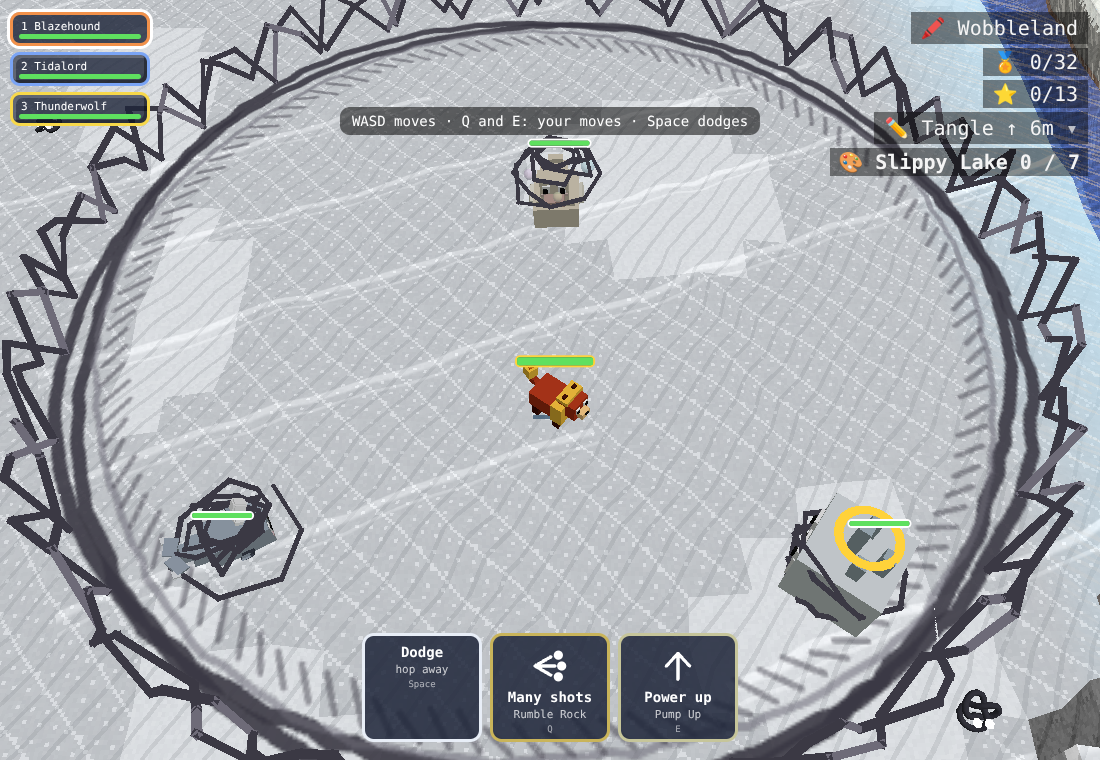
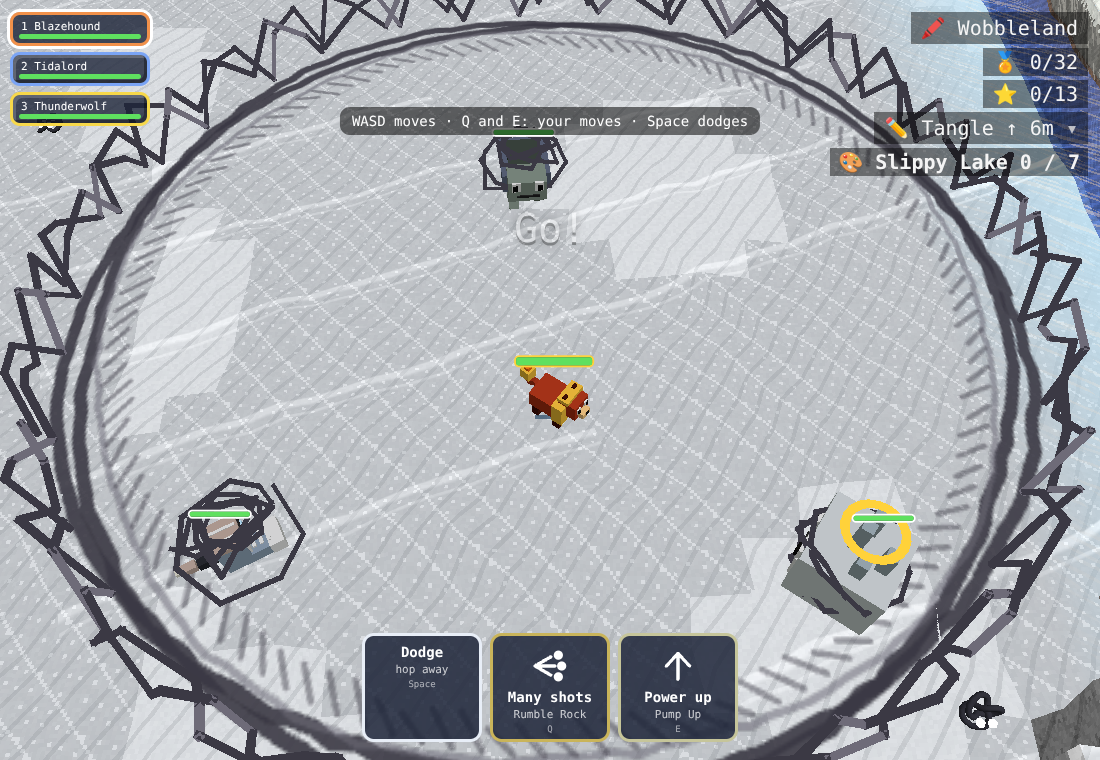
Slippy Lake: only monsters that charge by nature skate; the rest keep their own way of fighting
The ice no longer turns every slipping monster into a charger (owner: only rushes should skate).
Each lake patch gets one creature that charges by its nature (Zipskate, Blastskate, Parroteer,
Bottlet, Fizzbomb) so the skid still shows; patch 7 has Shellby instead of Squeaklet. Bot numbers
and the plan's section 9 updated.

Claude-Session: https://claude.ai/code/session_01Xr3DsTp8oRiY9awyskzth5

diff --git a/src/wobbleland.js b/src/wobbleland.js
@@ -46,18 +46,19 @@ export const PATCHES = [
   { id: 5, x: 140, z: 156, size: 'tangle', region: 'meadow', species: ['hornbeetle', 'woolumph', 'balloony', 'mossloth'], pot: 0xf07ab8 },
   { id: 6, x: 112, z: 152, size: 'knot', region: 'meadow', species: ['thornox', 'gullop', 'monarchwing', 'bounceroo'], grumble: 'grovebeast', last: true, pot: 0x8a4ee0 },
   // Slippy Lake (owner 2026-11-11: the ground decides the fight): every ring is on the ice, so everyone slides but Ice creatures. One Ice
-  // monster in each (it keeps its grip), the rest the lake's Bubble ducks and Sky birds and a Water one where there is open water (Ice
+  // monster in each (it keeps its grip), one creature that charges by its nature (a Racer skater, Fizzbomb, a Pirate) so the ice's skid shows, the rest the lake's Bubble ducks, birds
+  // and a Water one where there is open water (Ice
   // moves do half to Water and Ice: a lake of Water monsters would hide the grip behind the type chart, measured: plans/chapter3-world.md).
   // `holes`: open water in the ice inside the ring ([dx, dz, r]: the water twist there too, a Water creature swims at full speed). The
   // knot's big one is Blizzbear (an Ice Grumble: it keeps its grip). No smudges: the second region starts with tangles, and `step`: its
   // monsters are 2 levels over a meadow patch of the same size (scribblefight.js patchFight).
-  { id: 7, x: 41, z: 204, size: 'tangle', region: 'lake', step: 2, species: ['frostling', 'squeaklet', 'skyfin'], pot: 0x46d0e0 },
-  { id: 8, x: 41, z: 152, size: 'tangle', region: 'lake', step: 2, species: ['waddlice', 'suddly', 'pinwhirl'], pot: 0x9be36a },
-  { id: 9, x: 17, z: 204, size: 'tangle', region: 'lake', step: 2, species: ['flurrydome', 'hippip', 'shellby'], wet: true, holes: [[3, 3, 1.8], [-4, -3, 1.6]], pot: 0x1a9e8f },
+  { id: 7, x: 41, z: 204, size: 'tangle', region: 'lake', step: 2, species: ['frostling', 'shellby', 'zipskate'], pot: 0x46d0e0 },
+  { id: 8, x: 41, z: 152, size: 'tangle', region: 'lake', step: 2, species: ['waddlice', 'suddly', 'parroteer'], pot: 0x9be36a },
+  { id: 9, x: 17, z: 204, size: 'tangle', region: 'lake', step: 2, species: ['flurrydome', 'bottlet', 'shellby'], wet: true, holes: [[3, 3, 1.8], [-4, -3, 1.6]], pot: 0x1a9e8f },
   { id: 10, x: 17, z: 152, size: 'tangle', region: 'lake', step: 2, species: ['snowpaw', 'balloony', 'fizzbomb'], pot: 0x2a3fae },
-  { id: 12, x: 17, z: 126, size: 'tangle', region: 'lake', step: 2, species: ['snowpaw', 'gullop', 'zeppeluff'], pot: 0x7a5cff },
-  { id: 13, x: 41, z: 126, size: 'tangle', region: 'lake', step: 2, species: ['waddlice', 'bubbuck', 'pinwhirl'], wet: true, holes: [[-3, 3, 1.7]], pot: 0xff6a3c },
-  { id: 11, x: 29, z: 99, size: 'knot', region: 'lake', species: ['frostling', 'suddly', 'skyfin'], grumble: 'blizzbear', last: true, wet: true, holes: [[-5, 3, 1.6], [4, -4, 1.5], [6, 5, 1.3]], pot: 0xd6f4ff },
+  { id: 12, x: 17, z: 126, size: 'tangle', region: 'lake', step: 2, species: ['snowpaw', 'gullop', 'blastskate'], pot: 0x7a5cff },
+  { id: 13, x: 41, z: 126, size: 'tangle', region: 'lake', step: 2, species: ['waddlice', 'bubbuck', 'zipskate'], wet: true, holes: [[-3, 3, 1.7]], pot: 0xff6a3c },
+  { id: 11, x: 29, z: 99, size: 'knot', region: 'lake', species: ['frostling', 'suddly', 'blastskate'], grumble: 'blizzbear', last: true, wet: true, holes: [[-5, 3, 1.6], [4, -4, 1.5], [6, 5, 1.3]], pot: 0xd6f4ff },
 ];
 export const CAMP_POT = { x: 120, z: 207, colour: 0xff8a1c };    // A3: the Camp's own paint pot (a hop back home)
 export const patchKey = id => `pw:wobble:patch${id}`;
@@ -424,7 +425,7 @@ export function paperDoor(world) {
 }
 // The Wizard's words after a patch is cleared (n = patches cleared in the region, of = how many it has).
 const NEXT_WORDS = { meadow: 'Next: Slippy Lake, through the west wall!', lake: 'Next: Shadywood, through the east wall of the meadow.' };
-const KNOT_WORDS = { meadow: 'Be careful: something grumbles in there!', lake: 'Be careful: something big skates in there!' };
+const KNOT_WORDS = { meadow: 'Be careful: something grumbles in there!', lake: 'Be careful: something big and icy waits in there!' };
 export function wizardLine(n, of, region = 'meadow') {
   const name = REGIONS[region]?.name ?? 'Puddle Meadow';
   if (n >= of) return `🧙 ${name} is bright again! ${NEXT_WORDS[region] ?? ''}`.trim();

diff --git a/src/groundrules.js b/src/groundrules.js
@@ -7,14 +7,12 @@
 //   move(v, tx, tz, dt, grip): the walking velocity v eases toward the wanted (tx, tz) for one step of dt
 //   carry:        what is left of a rush / dodge's speed when it ends (a slider skids on)
 //   overshoot:    how far a slipping monster's charge goes past its aim (its red line is drawn that much longer)
-//   pattern(type): how a monster of this type fights here (null = its own nature): on ice the ones that slip skate at you (charge)
 export class GroundRule {
   constructor(o = {}) { this.id = 'plain'; Object.assign(this, o); }
   grips() { return true; }
   move(v, tx, tz) { v.x = tx; v.z = tz; }
   carry() { return 0; }
   overshoot() { return 0; }
-  pattern() { return null; }
   // how far something moving at speed `s` goes before it stops if it lets go now (the bots and the skid marks read it)
   stopDist() { return 0; }
 }
@@ -34,7 +32,6 @@ export class Ice extends GroundRule {
   }
   carry(kind, type) { return this.grips(type) ? 0 : kind === 'dodge' ? this.dodge : this.rush; }
   overshoot(type) { return this.grips(type) ? 0 : this.past; }
-  pattern(type) { return this.grips(type) ? null : 'charge'; }
   stopDist(s, type) { return this.grips(type) ? 0 : s / this.k; }
 }
 

diff --git a/src/scribblefight.js b/src/scribblefight.js
@@ -210,8 +210,7 @@ export class ScribbleFight {
     const list = opts.foes || FOES.slice(0, 3);
     this.foes = list.map((d, i) => {
       const [x, z] = opts.spots?.[i] ?? this.spotAround(i, list.length);
-      const rule = this.g.rule?.(this.C.x, this.C.z, this.C.y), on = rule?.pattern(SPECIES[d.species]?.type); // (the ground may change how it fights: on ice the slippers skate at you)
-      const f = fighter({ species: d.species, level: d.level ?? lvl, pattern: on && !d.grumble ? on : d.pattern }, 'foe', x, this.g.floor(x, z, this.C.y + 6), z);
+      const f = fighter({ species: d.species, level: d.level ?? lvl, pattern: d.pattern }, 'foe', x, this.g.floor(x, z, this.C.y + 6), z);
       f.maxHp = f.hp = Math.round(f.maxHp * FIGHT.foeHp * (opts.hp ?? 1)); // (a patch's size: PATCH_SIZES)
       if (d.grumble) { f.grumble = true; f.r = GRUMBLE.r; f.maxHp = f.hp = Math.round(f.maxHp * GRUMBLE.hp); f.openT = 0; }
       f.heading = Math.atan2(this.you.x - x, this.you.z - z);

diff --git a/CLAUDE.md b/CLAUDE.md
@@ -197,15 +197,15 @@ world with `W/D/data/ground/index/inBounds/get`) are run in Node by their specs.
 | `src/studio.js` | Wave 19 stage C: `createStudio(game, { startBattle, save })` -> `game.studio` (`won` / `ally` / `paint` / `design` / `wins` = the save field `wizard`, `loadStudio` cleans it; `talk` = his gate words, the first battle (`boss: true`, `wizard: { rematch }`), a rematch ask; `battleWon` / `battleLost` from main.js `onBattleEnd`; the drawing board `#drawboard` (`renderBoard`, `pick` -> `ui.ask`, `choose` = the guardian joins your team in your painted colours, `+20` cubes, `ui.celebrate`); `redraw` (a missing guardian); `rankText` ("Wizard's Ally"); `update` (called by `portal.update`: the Wizard on his island in the Swirl via `npcs.addGuest`, your guardian circling his tower); pure `battleTeam(wins)`, `loadStudio`) |
 | `src/studiolive.js` | Wave 19 stage B `StudioLive` = `LIVE.studio`: dip / paint (`near` / `use` / `tap`, reach 12, "Come a little closer!" beyond it), squares with `setLive`, stairs doors with `LiveCells`, the hint blink, the brush chip, the `#easel` card, the Wizard's gate words (stage C: his battle); `manual` + `step`, `info()` |
 | `src/studioprops.js` | Wave 19 stage B models: `drawPicture` / `pictureCanvas` (from `FLOORS`), the easel, pot rims, the brush, the rug |
-| `src/scribblefight.js` | Chapter 3 Test A / B (owner 2026-11-09), pure, Node-runnable: `ScribbleFight` = the arena's Live rules (`shapeOf`, `damage`, `intentFor`, `LIVE` imported unchanged from `src/arena/`) on the REAL ground: `groundOf(world)` (`stand`: a creature steps up one block, a step of two is a wall; `floor`; `wet`: swim slowly), shots fly straight in 3D and stop in the first solid block, a rush stops at a wall, a stomp reaches only about its own height, the ring (`FIGHT.R` 10) is the only fence; `FIGHT` (scribble monsters x8 HP, power 60, `attack` 0.7: tougher than the arena's x6 / 50 so mashing never wins with buffs that really work; `rush`: a rush landing in the last half of a monster's warning cancels its attack, knocks it back and carries you through, any other rush stops at the monster; `cool` overrides the arena's cool-downs, empty now; owner 2026-11-09 "shots have a huge advantage", measured in plans/chapter3.md), `squadOf(party)` (copies, never your real creatures), `spotAround` (monsters leap round your creature). Night run 2026-11-09 (`plans/chapter3.md` section 9): the monsters take your STRONGEST creature's level; `FIGHT.burst` (the big blast's ring grows 2 -> 5 while held, only a full one hits hard, it stops a monster in the last half of its warning; `blastR(k)`), `FIGHT.heal` (sits 0.8 s, a hit spoils it), `FIGHT.powerUp` (lost on a hit), `FIGHT.tough` (a brace: a hit in 0.7 s bounces off and stops its thrower); **Owner 2026-11-11 (night run, plans/chapter3-world.md "Decided overnight"): `KIND_NUMBERS` = every kind's numbers in one place (`wait`, `hit`, its own rules; `FIGHT.rush` / `burst` / `heal` / `powerUp` / `tough` are aliases), a rush hits x`hit` only when timed (`plain` otherwise), `liveShape(id)` (a speed-raising move = Speed up, a multi-hit move's power x `MULTI_HITS`), `SPEED` / `paceOf` (base speed -> x0.85..1.15 walking and dodging, monsters too), `foeHp` 10, step 5: `PATCH_SIZES` (smudge / tangle / knot: level step, HP, attack rhythm, patterns), `patternOf(species)`, `patchFight(patch, y)`, `swimOf` (Water creatures swim at full speed); opts `levelStep` / `hp` / `attack`; step 7: `GRUMBLE` (a knot's big one: turns slowly, full hits only on its back or right after it struck, `openT`; scribble.js draws its glowing back)**; `FIGHT.firstJitter` (2026-11-10: the monsters' first attacks start at a random 0-0.8 s extra; at fixed times a masher's rushes always came just before the timed rush's window and 20 fps frames tipped them in, so mashing won 3x as often at 20 fps); `FightCam` / `CAM` (the fight camera, pure: fov 50, 12.6 up / 8.2 back = about 57 degrees down (owner 2026-11-10: "a bit too steep"), never follows your look; turn `'frame'`: turns slowly (`turnRate`) only while a monster is near the screen's `edge`; tips up over hills, eased), `foesMiddle` (the living monsters it frames) and `onScreen` (the bots' projection). Owner 2026-11-10 ("5 buttons ... is A LOT", chose Attack + Special): `GROUP` (attack = shot / many shots / big blast / rush, special = heal / power up / Tough / clouds), `BUTTONS` (0 Dodge, 1 Attack, 2 Special), `push(b)` / `lift(b)`, `buttonsOf()` (owner 2026-11-10: button 1 attacks, button 2 help moves; no help move = close-up attacks (rush, big blast) on button 2, all one side = split in half: no empty button), `nextMove(button)` (the ready move of that button used longest ago, else the one ready soonest), `ICON` / `iconOf` (● ●●● ◎ ➜ ✚ ▲ 🛡 ☁ ☾), `pad()` = the three buttons **Slippy Lake: `groundOf(world).rule(x, z, y)` asks world.groundAt (`FIGHT.ground = false` = tests without the ice); `walk(f, tx, tz, dt)` moves every fighter by it (no rule = exactly as before), `carryOf` (a rush / dodge / charge skids on), a slipping monster's red line `overshoot`s, and a monster that slips fights by the ground's `pattern` (it skates at you)** |
+| `src/scribblefight.js` | Chapter 3 Test A / B (owner 2026-11-09), pure, Node-runnable: `ScribbleFight` = the arena's Live rules (`shapeOf`, `damage`, `intentFor`, `LIVE` imported unchanged from `src/arena/`) on the REAL ground: `groundOf(world)` (`stand`: a creature steps up one block, a step of two is a wall; `floor`; `wet`: swim slowly), shots fly straight in 3D and stop in the first solid block, a rush stops at a wall, a stomp reaches only about its own height, the ring (`FIGHT.R` 10) is the only fence; `FIGHT` (scribble monsters x8 HP, power 60, `attack` 0.7: tougher than the arena's x6 / 50 so mashing never wins with buffs that really work; `rush`: a rush landing in the last half of a monster's warning cancels its attack, knocks it back and carries you through, any other rush stops at the monster; `cool` overrides the arena's cool-downs, empty now; owner 2026-11-09 "shots have a huge advantage", measured in plans/chapter3.md), `squadOf(party)` (copies, never your real creatures), `spotAround` (monsters leap round your creature). Night run 2026-11-09 (`plans/chapter3.md` section 9): the monsters take your STRONGEST creature's level; `FIGHT.burst` (the big blast's ring grows 2 -> 5 while held, only a full one hits hard, it stops a monster in the last half of its warning; `blastR(k)`), `FIGHT.heal` (sits 0.8 s, a hit spoils it), `FIGHT.powerUp` (lost on a hit), `FIGHT.tough` (a brace: a hit in 0.7 s bounces off and stops its thrower); **Owner 2026-11-11 (night run, plans/chapter3-world.md "Decided overnight"): `KIND_NUMBERS` = every kind's numbers in one place (`wait`, `hit`, its own rules; `FIGHT.rush` / `burst` / `heal` / `powerUp` / `tough` are aliases), a rush hits x`hit` only when timed (`plain` otherwise), `liveShape(id)` (a speed-raising move = Speed up, a multi-hit move's power x `MULTI_HITS`), `SPEED` / `paceOf` (base speed -> x0.85..1.15 walking and dodging, monsters too), `foeHp` 10, step 5: `PATCH_SIZES` (smudge / tangle / knot: level step, HP, attack rhythm, patterns), `patternOf(species)`, `patchFight(patch, y)`, `swimOf` (Water creatures swim at full speed); opts `levelStep` / `hp` / `attack`; step 7: `GRUMBLE` (a knot's big one: turns slowly, full hits only on its back or right after it struck, `openT`; scribble.js draws its glowing back)**; `FIGHT.firstJitter` (2026-11-10: the monsters' first attacks start at a random 0-0.8 s extra; at fixed times a masher's rushes always came just before the timed rush's window and 20 fps frames tipped them in, so mashing won 3x as often at 20 fps); `FightCam` / `CAM` (the fight camera, pure: fov 50, 12.6 up / 8.2 back = about 57 degrees down (owner 2026-11-10: "a bit too steep"), never follows your look; turn `'frame'`: turns slowly (`turnRate`) only while a monster is near the screen's `edge`; tips up over hills, eased), `foesMiddle` (the living monsters it frames) and `onScreen` (the bots' projection). Owner 2026-11-10 ("5 buttons ... is A LOT", chose Attack + Special): `GROUP` (attack = shot / many shots / big blast / rush, special = heal / power up / Tough / clouds), `BUTTONS` (0 Dodge, 1 Attack, 2 Special), `push(b)` / `lift(b)`, `buttonsOf()` (owner 2026-11-10: button 1 attacks, button 2 help moves; no help move = close-up attacks (rush, big blast) on button 2, all one side = split in half: no empty button), `nextMove(button)` (the ready move of that button used longest ago, else the one ready soonest), `ICON` / `iconOf` (● ●●● ◎ ➜ ✚ ▲ 🛡 ☁ ☾), `pad()` = the three buttons **Slippy Lake: `groundOf(world).rule(x, z, y)` asks world.groundAt (`FIGHT.ground = false` = tests without the ice); `walk(f, tx, tz, dt)` moves every fighter by it (no rule = exactly as before), `carryOf` (a rush / dodge / charge skids on), a slipping monster's red line `overshoot`s** |
 | `src/scribble.js` | Chapter 3 Test A / B, **?preview only** (`PREVIEW`; without it this file does nothing): `scribbleSpot(world, sx, sz, yaw)` (pure: dry land 14-23 ahead of where you are when the game starts (owner 2026-11-09: tied to the world's start nobody near their home saw it), no gym box, nothing built within the ring; a toast says so), `createScribble(game)` -> `game.scribble`: the patch (an instanced pencil tangle + a ground decal); the monsters are their real models gone grey (`greyOut`) with pencil scribble wound round them (`buildWrap` / `drawWrap`; owner 2026-11-09: never drawn as doodles; STORY.md: caught creatures "go grey and grumpy"), beaten: the scribble bursts off, the colours come back, a hop, it runs off; stepping in snaps the tangle into a ring fence, a Capture Cube flies out and your lead creature hops out, the camera rises from your eyes to behind and above it in one move (`camK`, a blend of the eye pose and `thirdPerson` = scribblefight.js `FightCam`; the fov glides 75 -> 50 with it and back; your look is held while the camera is behind; enter / exit are closed forms of `phaseT`, `pinT` freezes a moment for screenshots); Test B (first person) was removed (owner 2026-11-10: "better with the pan out version"); three buttons with a fixed meaning (owner 2026-11-10): Jump = Dodge, the round action button = Attack, Place = Special, each showing its next move's KIND as a simple drawn icon (`KIND_SVG`, owner 2026-11-10: "WTH does attack mean") and word (Shot, Many shots, Blast · hold, Rush, Heal, Power up, Tough, Slow cloud, Sleepy cloud; the computer's card adds the move's name; `plans/chapter3/kind-icons.png`) (capture listeners on `btn-jump/act/place`; Ride and Down are hidden in a fight, `#touch.fight`), keys Space / Q (or a click) / E, hold Attack on ◎ to charge a big blast, 1 2 3 swap, a tap picks a monster; one ground ring round your creature (`aura`: the big blast's reach while held, heal, brace, power up); nothing saved, sent or a block; Wobbleland: every open patch not live is drawn from afar (`syncFar`: its boiling tangle and scribbled ground in a group at its middle, so the curl lifts it; `farInfo()`). main.js hooks marked "chapter 3" (`holdsPlayer`, `update`, `tap`); `where()` / `aim()`: the guide arrow (guide.js) leads to the patch until you cleared it once (`beaten`), and "Where to go" has a row `scribble` (destinations.js, dim while it is gone) |
 | `src/wobblelook.js` | Chapter 3 step 4: Wobbleland's look behind the `WOBBLE` material define (set only there, like `SKETCH`; caves.js `wobbleLook` uniforms, `WOBBLE_VERT` / `WOBBLE_FRAG`): `WOBBLE_LOOK` (**`curl`** = the one on/off switch of the curling page, `curlFrom` / `curlK`; first-draft `draft` / `sat` / `line`; `cleared` / `flood`; C1 `jig` = every block corner moved by a hash of its place (caves.js `uWobJig`, no cracks, vCavePos stays real); C2 `crayon` = wax-crayon streaks with paper gaps on coloured-in land (caves.js `uWobCrayon`, in the shader, no second atlas); C3 `sky`), `curlLift(d)`, `createWobbleLook` -> `game.wobbleLook` (`reset`, `update`, `flood(id)`, `beforeRender` / `afterRender` lift far models, `toggleCurl`, the pause screen's `#curl-btn`, `colourAt`, `info`); the main world is byte for byte the same (spec `wobble` part `look`) |
 | `src/wobblelive.js` | Chapter 3 (?preview) `WobbleLive` = `LIVE.wobble` (world.parts from wobbleland.js), owner 2026-11-11 "object-oriented": it only composes small `Piece` classes (`PIECES`: `Puffs`, `PaintPots`, `Bugs`, `Springs`, `RiverMarks`, `HillStrings`; each may have `update(dt, p)`, `keysChanged`, `near` / `use`, `info`, `dispose`; a new thing = one class + one entry): A2 the scribble bugs (scribblebugs.js), C5 the springs' crayon coils (squash under you), A3 paint-pot hops (`POT`, pure `potsOf(beaten)` = the Camp's pot + one per cleared patch, `hopOf(pots, pos, yaw)` = the pot you stand in and the one nearest the way you look; a beam of its colour over it, the button word "Hop to blue!"), `info()`; nothing saved or sent; Slippy Lake: `Skids` (your skid marks on the ice, skidmarks.js), bugs and pot colours of the lake's patches once it opens |
 | `src/scribblebugs.js` | Chapter 3 A2 (?preview), pure, 1/120 s sub-steps: scribble bugs (`BUG`, `bugsFor(patch)`, `yardStep`, `BugField`): four round each patch not cleared; a bug runs from you always a bit faster than you move (`faster`), lives in a yard round its patch (`inner`..`outer`) and on its edge only slides along it, so you corner it; `tests/wobblebugbots.mjs` (naive sprinter vs a cornering bot, 60 / 20 fps); drawn by wobblelive.js (instanced, a pop = a puff + `wobbleLook.splat`) |
-| `src/groundrules.js` | Chapter 3 Slippy Lake (?preview), pure, no imports: **the ground's own rule, one object per ground** (owner 2026-11-11: "build it once as a ground rule object the player physics and the scribble fight both ask"): `GroundRule` (`grips(type)`, `move(v, tx, tz, dt, grip)`, `carry(kind, type)`, `overshoot(type)`, `pattern(type)`, `stopDist`), `Ice` (owner 2026-11-11 "more slippery": letting go eases at `k` 1.1 = a walk glides about 4 blocks, getting going / turning at `go` 0.7; Ice creatures and Ice monsters keep their grip; a rush / dodge skids on `rush` 4 / `dodge` 3; a slipping monster's charge goes `past` 2 further and slipping monsters skate at you: `pattern` = charge), `GROUND`. A world answers `world.groundAt(pos)` (Wobbleland: `iceUnder`); Shadywood / Bumpy Hills = one more subclass |
+| `src/groundrules.js` | Chapter 3 Slippy Lake (?preview), pure, no imports: **the ground's own rule, one object per ground** (owner 2026-11-11: "build it once as a ground rule object the player physics and the scribble fight both ask"): `GroundRule` (`grips(type)`, `move(v, tx, tz, dt, grip)`, `carry(kind, type)`, `overshoot(type)`, `stopDist`), `Ice` (owner 2026-11-11 "more slippery": letting go eases at `k` 1.1 = a walk glides about 4 blocks, getting going / turning at `go` 0.7; Ice creatures and Ice monsters keep their grip; a rush / dodge skids on `rush` 4 / `dodge` 3; a slipping monster's charge goes `past` 2 further and skids on; owner 2026-11-11: monsters keep their own way of fighting, only the ones that charge by nature skate at you), `GROUND`. A world answers `world.groundAt(pos)` (Wobbleland: `iceUnder`); Shadywood / Bumpy Hills = one more subclass |
 | `src/skidmarks.js` | Slippy Lake: `SkidMarks` (one instanced mesh of fading scratches, `track(who, x, y, z, vx, vz, dt)`), used by wobblelive.js `Skids` (you) and scribble.js (every fighter that slides; an Ice one never) |
 | `src/wobblesky.js` | Chapter 3 C3 (?preview): `createWobbleSky(scene)` = a child's sky in Wobbleland only (`SKY`: a crayon-streaked dome that follows the camera, a smiling sun with rays, cotton clouds on strings; 4 draw calls, `noCurl`, `fog: false`); made / thrown away by wobblelook.js `reset` (`WOBBLE_LOOK.sky`) |
-| `src/wobbleland.js` | Chapter 3 (plans/chapter3-world.md, ?preview only): **Wobbleland**, the Wizard's very first drawing, as terrain data (Node-runnable, `TERRAINS.wobbleLand`, 224 x 224, the same for every seed): `CAMP` (Inkpot Camp, healer, the way back on steps), `PATCHES` (append-only ids, `patchKey(id)` = `pw:wobble:patch<id>`, `openPatches(beaten)` (the knot only once its region's others are clear), `FREED_SPAWNS` (wildafter `wobble:<id>`), `meadowState`, `wizardLine`, sizes smudge / tangle / knot, `wet` = the water twist), owner 2026-11-11 (A1): a packed `MEADOW` box round the Camp (patch centres 26-28 apart, the arrow shows smudges first) and the next `REGIONS` right beside it (`regionAt`: Bumpy Hills north, Slippy Lake `LAKE` west, Shadywood `WOOD` east); B: riding and flying everywhere (the page's keep has `rideIn`; riding into a patch hops you off as its fight starts, scribble.js), `heightAt` (bulgy hills, flat rings), puddles, the right-angle river, wonky trees / flower / cloud / small house / stairs to nowhere / mushroom; C4 / C5: `FLOATERS` (five hills on strings with a chest, a Bounce Block spring beside four: walking, jumping and flying never get you up), the floating river `RIVER_UP` / `riverY` / `riverFlow` (= `world.flowAt`, read by player.js `walkStep`: a current carries you uphill to the fifth hill, no button), `UPSIDE_TREES`, `CRAYONS`; freed creatures appear near their own patch and on the hills (`FREED_SPAWNS` with spawnrules.js `near:<arg>` -> `world.spawnSpot` = `wobbleSpot`); `world.wobble`; `wobbleAim`; `paperDoor(world)` = the Paper Door's cells in the tower's south wall on the Wizard's island + where you come back (portal.js draws it, CLOTH under a grey-cream `DoorGlow`, only for `game.studio.ally` with `PREVIEW`); realm `REALMS.wobble` (registered only with ?preview, `entrance: 'paper'`); `tests/wobblecheck.mjs` (reach, rings, the wall), spec `wobble`; **Owner 2026-11-11: no walls, every region open from the start** (a region still being drawn says so); **Slippy Lake** (plans/chapter3-world.md "Slippy Lake", section 8): west of the meadow (`LAKE.box` x 0..59, z `LAKE_Z0` 72..223, as big as the meadow): a frozen lake of two `LAKE.lobes` (`lakeShape` <= 1: ICE over water at `LAKE.y`), not only ice: snow drifts (`LAKE.drift`, `driftAt`: grip spots), `LOGS` frozen in, `ROCKS` poking through (never in a ring), `PINES` and gravel on the shore, snowy islands and a rock island (`LAKE.isles`), stepped snow hills (`LAKE.hills`) with `CHUTES` (ice down a hill, `lakeFlow` pushes you along: you shoot onto the lake) into `LEADS` (open water with a current to the east island, a last push climbs you out); patches 7-10, 12, 13 (tangles, `step` 2) and the knot 11 at the north end (Blizzbear, an Ice Grumble), one Ice monster each, `holes` = open water in a ring (`wet`); a floating hill with its spring on the ice; `REGIONS` (`soon`) / `regionState` / `freedSpawns(region)`; `world.groundAt` = `iceUnder`, `world.flowAt` = river + `lakeFlow`; `wobbleSpot('isle')`; `tests/wobblenode.mjs` (the real Player and fight on the ice) |
+| `src/wobbleland.js` | Chapter 3 (plans/chapter3-world.md, ?preview only): **Wobbleland**, the Wizard's very first drawing, as terrain data (Node-runnable, `TERRAINS.wobbleLand`, 224 x 224, the same for every seed): `CAMP` (Inkpot Camp, healer, the way back on steps), `PATCHES` (append-only ids, `patchKey(id)` = `pw:wobble:patch<id>`, `openPatches(beaten)` (the knot only once its region's others are clear), `FREED_SPAWNS` (wildafter `wobble:<id>`), `meadowState`, `wizardLine`, sizes smudge / tangle / knot, `wet` = the water twist), owner 2026-11-11 (A1): a packed `MEADOW` box round the Camp (patch centres 26-28 apart, the arrow shows smudges first) and the next `REGIONS` right beside it (`regionAt`: Bumpy Hills north, Slippy Lake `LAKE` west, Shadywood `WOOD` east); B: riding and flying everywhere (the page's keep has `rideIn`; riding into a patch hops you off as its fight starts, scribble.js), `heightAt` (bulgy hills, flat rings), puddles, the right-angle river, wonky trees / flower / cloud / small house / stairs to nowhere / mushroom; C4 / C5: `FLOATERS` (five hills on strings with a chest, a Bounce Block spring beside four: walking, jumping and flying never get you up), the floating river `RIVER_UP` / `riverY` / `riverFlow` (= `world.flowAt`, read by player.js `walkStep`: a current carries you uphill to the fifth hill, no button), `UPSIDE_TREES`, `CRAYONS`; freed creatures appear near their own patch and on the hills (`FREED_SPAWNS` with spawnrules.js `near:<arg>` -> `world.spawnSpot` = `wobbleSpot`); `world.wobble`; `wobbleAim`; `paperDoor(world)` = the Paper Door's cells in the tower's south wall on the Wizard's island + where you come back (portal.js draws it, CLOTH under a grey-cream `DoorGlow`, only for `game.studio.ally` with `PREVIEW`); realm `REALMS.wobble` (registered only with ?preview, `entrance: 'paper'`); `tests/wobblecheck.mjs` (reach, rings, the wall), spec `wobble`; **Owner 2026-11-11: no walls, every region open from the start** (a region still being drawn says so); **Slippy Lake** (plans/chapter3-world.md "Slippy Lake", section 8): west of the meadow (`LAKE.box` x 0..59, z `LAKE_Z0` 72..223, as big as the meadow): a frozen lake of two `LAKE.lobes` (`lakeShape` <= 1: ICE over water at `LAKE.y`), not only ice: snow drifts (`LAKE.drift`, `driftAt`: grip spots), `LOGS` frozen in, `ROCKS` poking through (never in a ring), `PINES` and gravel on the shore, snowy islands and a rock island (`LAKE.isles`), stepped snow hills (`LAKE.hills`) with `CHUTES` (ice down a hill, `lakeFlow` pushes you along: you shoot onto the lake) into `LEADS` (open water with a current to the east island, a last push climbs you out); patches 7-10, 12, 13 (tangles, `step` 2) and the knot 11 at the north end (Blizzbear, an Ice Grumble), one Ice monster and one charger (a Racer skater, Fizzbomb, a Pirate) each, `holes` = open water in a ring (`wet`); a floating hill with its spring on the ice; `REGIONS` (`soon`) / `regionState` / `freedSpawns(region)`; `world.groundAt` = `iceUnder`, `world.flowAt` = river + `lakeFlow`; `wobbleSpot('isle')`; `tests/wobblenode.mjs` (the real Player and fight on the ice) |
 | `arena.html`, `src/arena/` | Chapter 3 test arena (owner 2026-11-09, a separate page, never part of the game, reads the save only): `core.js` (`shapeOf` = a battle move's arena shape from its data, `damage` = battle.js's sum, `intentFor` / `inIntent` = red warnings, `PLACES` meadow / cave / ice, `SEE`, `Fighter`, `Fx`), `live.js` (live action; ice slides, Ice creatures keep their grip), `turns.js` (`TimingMode` ⏱: needle / beats / charge and blocking; owner 2026-11-09: Draw and Flick had "no real aim", Aim was "very basic": all three removed), `main.js` (the five fixed buttons = Dodge + four moves, keys Q E R F + Space, 1 2 3 = swap, stick, the squad of three to swap in Live, the cave's light and eyes, `window.arena`); `tests/arenabots.mjs` = naive vs skilled bots for every mode and place |
 
 ## Key ideas

diff --git a/plans/chapter3-world.md b/plans/chapter3-world.md
@@ -736,7 +736,7 @@ one region shouldn't be the dependency for another region to unlock"**, build th
   puff. **Decided for now:** judged as in the meadow (with the neutral team); fixing it means changing the fight everywhere (e.g. monsters that
   punish standing still), which is question 1 below.
 - *Question 3 ("skate at you"):* on the ice, every monster that is not an Ice monster runs straight at you instead of throwing things from a
-  distance, slides past you and skids on (its red line is longer). **Decided: kept**: it is the one thing that makes the monsters' slide visible
+  distance, slides past you and skids on (its red line is longer). **Decided: kept** (**changed by the owner in section 9: only rushes skate**): it is the one thing that makes the monsters' slide visible
   (without it every lake monster threw things from afar and the ice changed nothing about them).
 
 **Bot numbers after the change** (`node tests/wobblebots.mjs`, every lake patch, 60 and 20 fps; "loses" = % of the squad's HP a minute;
@@ -763,6 +763,38 @@ Ice team's kid bot, with its grip and with the grip taken away for the measureme
    your team), the same as on Puddle Meadow's first patches. Should mashing lose with every team? That is a change to the fight everywhere.
 2. **Is it slippery enough now** (about 4 blocks of glide from a walk, 5 from a sprint)?
 3. The drifts, logs, rocks and pines: enough "other blocks", or more (e.g. a frozen reed bed, a half-sunk boat)?
+
+### 9. Only rushes skate (owner 2026-11-11, late)
+
+**The owner:** "I don't like that every monster that isn't Ice type runs at me (is that rush attack type?) ... rush type attacks can skate,
+but others should be as they are regular." Yes: they all used the charge pattern (the monsters' rush). **Changed:** the ice no longer
+changes how a monster fights (`pattern` is gone from `groundrules.js` and `scribblefight.js`); each keeps its own way from its nature
+(`patternOf`: mostly lobs for the lake's creatures). Only a monster that charges by its nature skates: its red line is longer (`past` 2) and it
+skids on after the charge. Your own rushes and dodges still skid on (`rush` / `dodge`).
+
+**So the skid still shows**, each lake patch now has one creature that charges by its nature, and the lake's are skaters where possible:
+patch 7 Frostling, Shellby, **Zipskate**; 8 Waddlice, Suddly, **Parroteer**; 9 Flurrydome, **Bottlet**, Shellby; 10 Snowpaw, Balloony,
+**Fizzbomb**; 12 Snowpaw, Gullop, **Blastskate**; 13 Waddlice, Bubbuck, **Zipskate**; knot 11 Frostling, Suddly, **Blastskate** + Blizzbear
+(`PATCHES` in `src/wobbleland.js`). Checked in Node (`tests/wobblenode.mjs`): on the ice Frostling and Shellby still lob, Zipskate charges.
+
+**Bot numbers** (`node tests/wobblebots.mjs`, 60 and 20 fps; mashing 12 a frame rate, the owner's 4, skilled and person 2 each; "loses" = % of
+the squad's HP a minute):
+
+| Patch | Mashing won: neutral / Ice / owner | Skilled loses: Ice / neutral / owner | Person won (loses): Ice / neutral / owner | The grip: the Ice kid with / without it |
+| --- | --- | --- | --- | --- |
+| 7 | 2 / 24, 24 / 24, 6 / 8 | 0 / 0 / 10 % | 4 / 4 (12 %) / 4 / 4 (13 %) / 4 / 4 (17 %) | 55 / 44 % |
+| 8 | 4 / 24, 24 / 24, 7 / 8 | 0 / 45 / 12 % | 4 / 4 (12 %) / 4 / 4 (49 %) / 4 / 4 (30 %) | 40 / 74 % |
+| 9 | 0 / 24, 21 / 24, 2 / 8 | 0 / 15 / 12 % | 4 / 4 (9 %) / 4 / 4 (29 %) / 4 / 4 (11 %) | 39 / 50 % |
+| 10 | 1 / 24, 24 / 24, 6 / 8 | 11 / 16 / 29 % | 4 / 4 (30 %) / 3 / 4 (65 %) / 4 / 4 (26 %) | 59 / 64 % |
+| 12 | 3 / 24, 23 / 24, 7 / 8 | 7 / 19 / 21 % | 4 / 4 (54 %) / 4 / 4 (21 %) / 4 / 4 (62 %) | 75 / 96 % |
+| 13 | 2 / 24, 24 / 24, 4 / 8 | 0 / 13 / 14 % | 4 / 4 (11 %) / 4 / 4 (30 %) / 4 / 4 (25 %) | 9 / 49 % |
+| 11 knot | 0 / 24, 3 / 24, 0 / 8 | 0 / 24 / 0 % | 4 / 4 (11 %) / 4 / 4 (27 %) / 3 / 4 (81 %) | 46 / 66 % |
+
+Skilled wins every fight with all three teams; mashing with the neutral team at most 4 / 24. Fights got a little shorter (person 35-150 s)
+and **the grip now shows more clearly**: with lobs back, a creature that slides cannot step out of a lob's circle in time, so the Ice team's kid
+bot loses less with its grip than without it on six of seven patches (e.g. patch 13: 9 % vs 49 % a minute), and the Ice team's person bot won
+28 / 28 losing about half of what the neutral one loses. Patch 7 first had Squeaklet (the neutral team mashed it 12 / 24); with Shellby 2 / 24.
+The mashing question (1 in section 8) stays open: the Ice team still mashes the tangles.
 
 ## Shadywood: the plan (the next session builds it)
 
